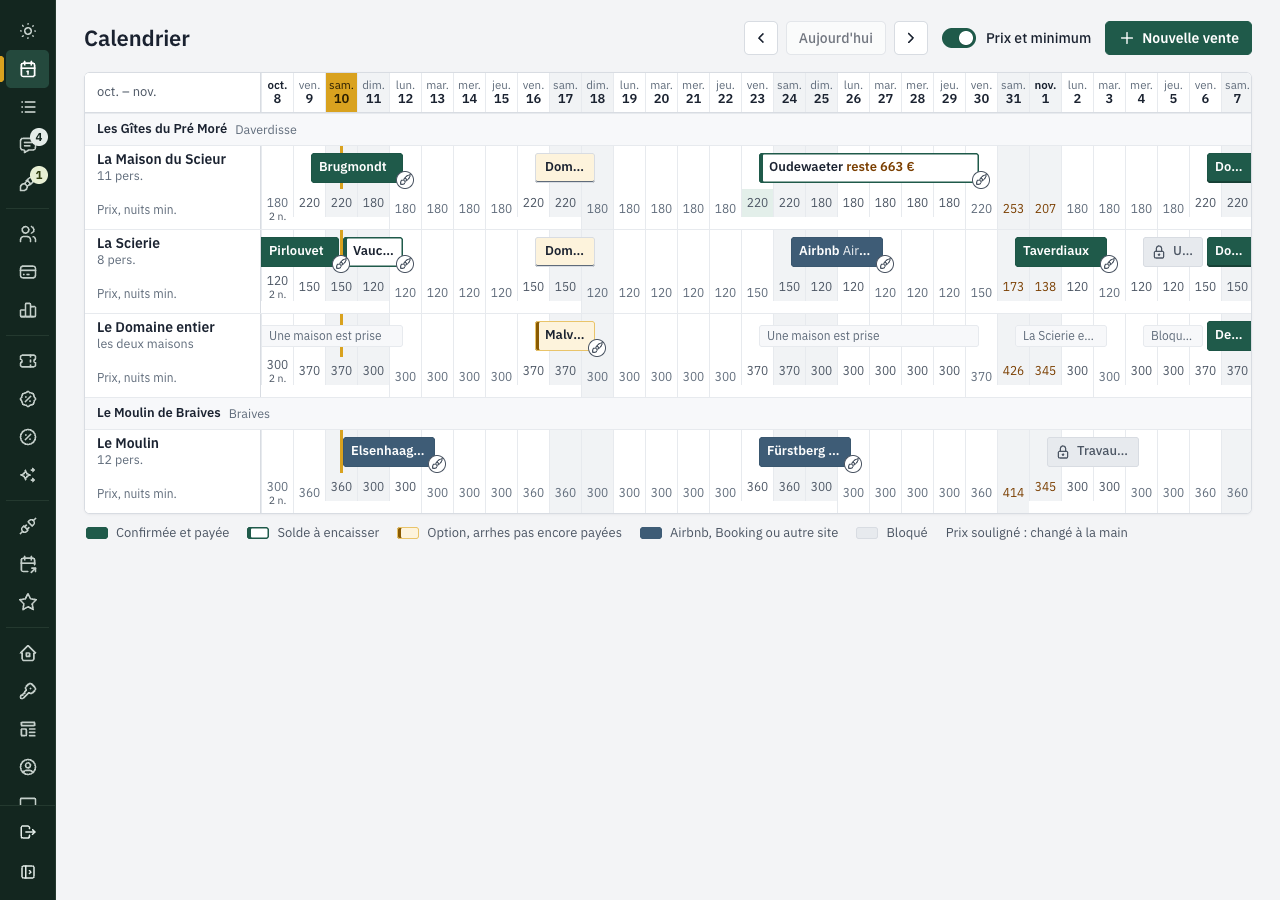
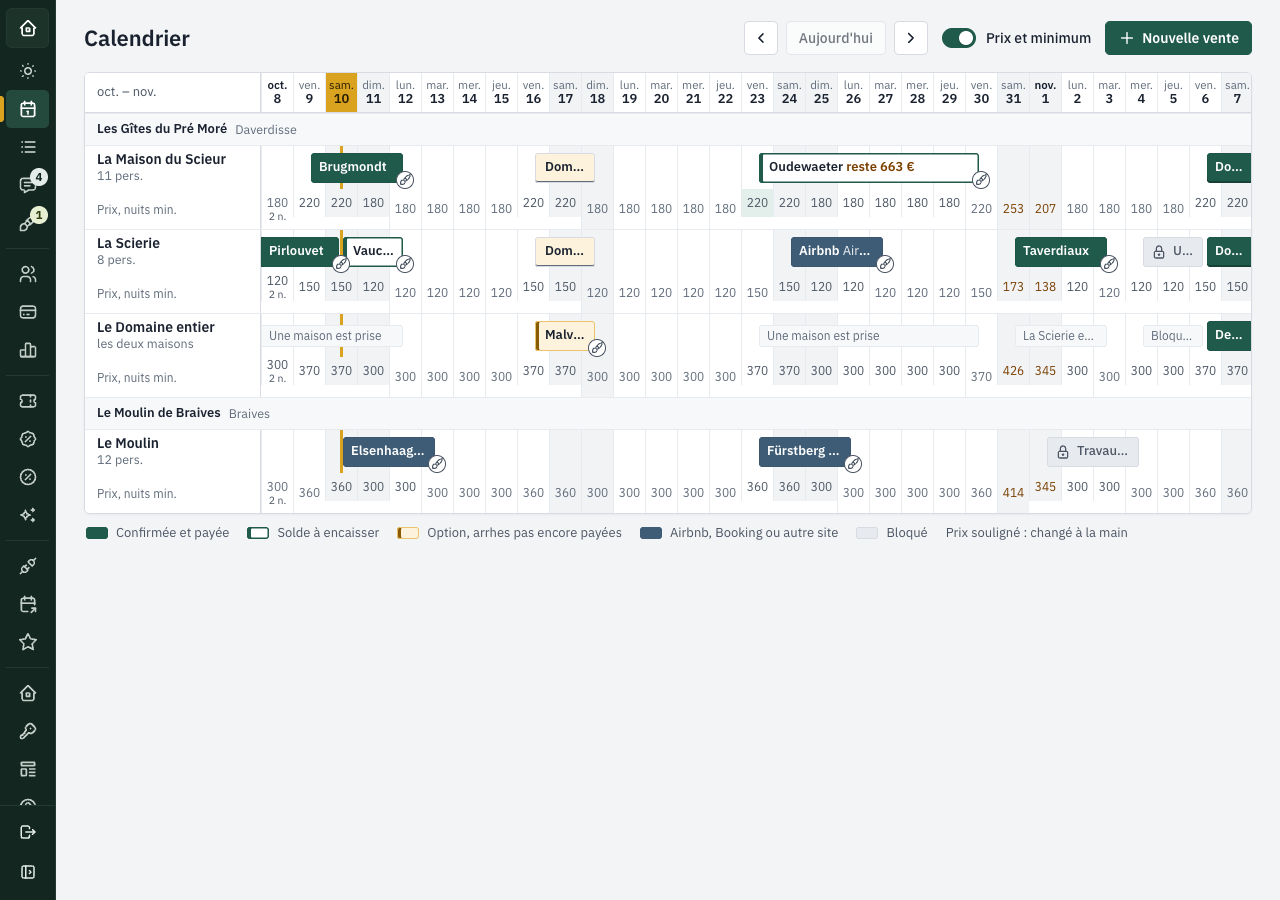
admin : contrôle Codex (boucle 1) — domaine accessible en mode replié, bascule en 64em partout, tableau défilant au téléphone, infobulles au clavier, aria-sort

diff --git a/app/src/styles.css b/app/src/styles.css
@@ -48,7 +48,7 @@
 }
 
 /* Téléphone : corps 16 px, cibles de 44 px. */
-@media (max-width: 1023.98px) {
+@media (max-width: 63.99em) {
   :root {
     --corps: 16px;
     --lab: 104px;
@@ -86,7 +86,7 @@ button { cursor: pointer; }
 .btn.danger { color: var(--danger); }
 .btn.done { background: var(--pine-soft); border-color: var(--pine); color: var(--ink); }
 .btn.wide { width: 100%; }
-@media (max-width: 1023.98px) { .btn { min-height: 48px; border-radius: 12px; font-weight: 700; } }
+@media (max-width: 63.99em) { .btn { min-height: 48px; border-radius: 12px; font-weight: 700; } }
 
 .switch {
   display: inline-flex; align-items: center; gap: 10px; min-height: 44px; padding: 0 6px;
@@ -116,7 +116,9 @@ button { cursor: pointer; }
 }
 .side :focus-visible { outline: 2px solid var(--rail-focus); outline-offset: -2px; }
 .side-top { padding: 12px 12px 8px; flex: none; }
-.side.folded .side-top { padding: 8px 0 0; }
+.side.folded .side-top { padding: 8px 6px 0; display: flex; justify-content: center; }
+.dom-icon { display: grid; place-items: center; width: 44px; height: 40px; border-radius: 6px; border: 1px solid var(--rail-line); background: var(--rail-hover); color: #FFFFFF; }
+.dom-icon:hover { background: var(--rail-on); }
 .side-nav { flex: 1; overflow-y: auto; overflow-x: hidden; padding: 4px 8px 12px; scrollbar-width: thin; scrollbar-color: var(--rail-line) transparent; }
 .side.folded .side-nav { padding: 4px 6px 12px; }
 .side-sec { margin: 0 0 10px; }
@@ -176,7 +178,7 @@ button { cursor: pointer; }
 }
 .top, .tabbar { display: none; }
 
-@media (max-width: 1023.98px) {
+@media (max-width: 63.99em) {
   .top {
     display: flex; align-items: center; padding: 6px 12px; min-height: 56px; position: sticky; top: 0; z-index: 50;
     background: var(--surface); border-bottom: 1px solid var(--line);
@@ -210,7 +212,7 @@ h1.title { margin: 0; font: 750 28px/1.2 var(--police-titres); letter-spacing: -
 h2.sub { margin: 0 0 6px; font: 700 22px/1.25 var(--police-titres); }
 .tools { display: flex; flex-wrap: wrap; align-items: center; gap: 8px; margin-left: auto; }
 .lead { margin: -6px 0 24px; color: var(--ink-2); max-width: 72ch; font-size: 16px; }
-@media (max-width: 1023.98px) {
+@media (max-width: 63.99em) {
   h1.title { font-weight: 600; font-size: 32px; letter-spacing: -.01em; }
   h2.sub { font-weight: 600; font-size: 22px; }
   .head .tools { margin-left: 0; width: 100%; }
@@ -242,7 +244,7 @@ h2.sub { margin: 0 0 6px; font: 700 22px/1.25 var(--police-titres); }
 /* --- calendrier multi-biens (A) --------------------------------------------- */
 .cal { position: relative; background: var(--surface); border: 1px solid var(--line); border-radius: 14px; overflow-x: auto; overscroll-behavior-x: contain; }
 .grid { min-width: max-content; user-select: none; }
-@media (min-width: 1024px) { .grid { min-width: calc(var(--lab) + var(--n2) * var(--half)); width: 100%; } }
+@media (min-width: 64em) { .grid { min-width: calc(var(--lab) + var(--n2) * var(--half)); width: 100%; } }
 .row { display: grid; grid-template-columns: var(--lab) repeat(var(--n2), var(--half)); align-items: center; min-height: 58px; border-top: 1px solid var(--line-2); }
 .row > * { grid-row: 1; }
 .lab {
@@ -349,7 +351,7 @@ h2.sub { margin: 0 0 6px; font: 700 22px/1.25 var(--police-titres); }
 .err p:last-child { margin: 0; }
 .ok-line { display: flex; gap: 10px; align-items: center; padding: 10px 12px; border-radius: 12px; background: var(--pine-soft); margin-top: 12px; font-weight: 600; }
 .pop .tabs-mini { display: flex; gap: 6px; margin-bottom: 14px; }
-@media (max-width: 1023.98px) {
+@media (max-width: 63.99em) {
   .pop {
     left: 0 !important; right: 0; bottom: 0; top: auto !important; width: 100%; border-radius: 18px 18px 0 0;
     max-height: 86vh; padding-bottom: calc(18px + env(safe-area-inset-bottom));
@@ -434,7 +436,7 @@ h2.sub { margin: 0 0 6px; font: 700 22px/1.25 var(--police-titres); }
 .week li.calm span { font-style: italic; }
 .wrap2 { display: grid; grid-template-columns: minmax(0, 680px) 380px; gap: 32px; justify-content: center; }
 .wrap2 > aside { position: sticky; top: 84px; align-self: start; }
-@media (max-width: 1023.98px) {
+@media (max-width: 63.99em) {
   .wrap2 { grid-template-columns: 1fr; gap: 24px; }
   .wrap2 > aside { position: static; }
   .day h1 { font-size: 32px; }
@@ -494,7 +496,7 @@ h2.sub { margin: 0 0 6px; font: 700 22px/1.25 var(--police-titres); }
 .list-row:hover { background: var(--surface-2); }
 .list-row b { font-weight: 700; }
 .list-row small { display: block; color: var(--ink-2); font-size: 15px; line-height: 1.4; margin-top: 2px; }
-@media (max-width: 1023.98px) { .list-row { grid-template-columns: 1fr auto; } .list-row .hide-s { display: none; } }
+@media (max-width: 63.99em) { .list-row { grid-template-columns: 1fr auto; } .list-row .hide-s { display: none; } }
 .empty { background: var(--surface); border: 1.5px dashed var(--line); border-radius: 14px; padding: 22px; }
 .empty h3 { margin: 0 0 4px; font-size: 19px; }
 .empty p { margin: 0 0 10px; color: var(--ink-2); max-width: 60ch; }
@@ -520,7 +522,7 @@ h2.sub { margin: 0 0 6px; font: 700 22px/1.25 var(--police-titres); }
 .reply { width: 100%; min-height: 200px; padding: 12px 14px; border: 1.5px solid var(--line); border-radius: 14px; background: var(--surface); line-height: 1.5; resize: vertical; }
 .send { display: flex; flex-wrap: wrap; align-items: center; gap: 10px; margin-top: 10px; }
 .send p { margin: 0 auto 0 0; color: var(--ink-2); font-size: 15px; }
-@media (max-width: 1023.98px) { .msgs { grid-template-columns: 1fr; } }
+@media (max-width: 63.99em) { .msgs { grid-template-columns: 1fr; } }
 
 .mday { margin: 22px 0 10px; font: 600 22px var(--police-titres); }
 .job { background: var(--surface); border: 1px solid var(--line); border-left: 5px solid var(--men); border-radius: 14px; padding: 14px 16px; margin-bottom: 12px; --k: var(--men); }
@@ -559,7 +561,7 @@ h2.sub { margin: 0 0 6px; font: 700 22px/1.25 var(--police-titres); }
 .toast.bad { background: var(--danger); color: #fff; }
 .toast.bad svg { color: #fff; }
 @keyframes toast-in { from { opacity: 0; transform: translateY(8px); } }
-@media (max-width: 1023.98px) { .toasts { bottom: 90px; } }
+@media (max-width: 63.99em) { .toasts { bottom: 90px; } }
 @media (prefers-reduced-motion: reduce) { * { animation: none !important; transition: none !important; } }
 
 /* --- connexion ---------------------------------------------------------------- */
@@ -571,8 +573,8 @@ h2.sub { margin: 0 0 6px; font: 700 22px/1.25 var(--police-titres); }
 .loading { padding: 40px 0; color: var(--ink-2); display: flex; align-items: center; gap: 10px; }
 .mk { position: relative; z-index: 3; justify-self: center; width: 22px; height: 22px; border-radius: 50%; display: grid; place-items: center; background: var(--surface); border: 1.5px solid var(--ink-2); color: var(--ink-2); margin-top: 30px; }
 .mk.ok { background: var(--pine); border-color: var(--pine); color: var(--on, #fff); }
-@media (max-width: 1023.98px) { .dom-ic { display: none; } }
-@media (max-width: 1023.98px) { .top .dom small { display: block; } }
+@media (max-width: 63.99em) { .dom-ic { display: none; } }
+@media (max-width: 63.99em) { .top .dom small { display: block; } }
 
 /* =====================================================================
    Lot 1 — lisibilité et écrans de réglages (10/10)
@@ -611,14 +613,14 @@ h2.sub { margin: 0 0 6px; font: 700 22px/1.25 var(--police-titres); }
 .list-row:disabled:hover { background: none; }
 .list-row .note-ov { color: var(--genet); font-weight: 600; }
 .show-s { display: none !important; }
-@media (max-width: 1023.98px) { .show-s { display: block !important; } }
+@media (max-width: 63.99em) { .show-s { display: block !important; } }
 .pill.muted-pill { background: var(--surface-2); color: var(--ink-2); border: 1px solid var(--line); }
 
 /* onglets d'un écran */
 .tabs { display: flex; flex-wrap: wrap; gap: 4px; border-bottom: 1.5px solid var(--line); margin: 0 0 28px; }
 .tabs button { min-height: 48px; padding: 0 16px; border: 0; background: none; font-weight: 600; color: var(--ink-2); border-bottom: 3px solid transparent; margin-bottom: -1.5px; }
 .tabs button[aria-selected="true"] { color: var(--ink); border-bottom-color: var(--pine); font-weight: 700; }
-@media (max-width: 1023.98px) { .tabs { flex-wrap: nowrap; overflow-x: auto; } .tabs button { white-space: nowrap; } }
+@media (max-width: 63.99em) { .tabs { flex-wrap: nowrap; overflow-x: auto; } .tabs button { white-space: nowrap; } }
 
 /* la règle des prix, dite une fois */
 .rule-box { background: var(--surface); border: 1px solid var(--line); border-left: 5px solid var(--pine); border-radius: 14px; padding: 16px 20px; margin: 0 0 24px; }
@@ -674,7 +676,7 @@ fieldset.wd legend { font-weight: 600; margin-bottom: 8px; padding: 0; }
 .kpi span { color: var(--ink-2); font-weight: 600; }
 .kpi b { font: 800 30px/1.1 var(--police-titres); letter-spacing: -.01em; }
 .kpi small { color: var(--ink-2); font-size: 15px; }
-@media (max-width: 1023.98px) { .kpis { grid-template-columns: 1fr 1fr; gap: 10px; } .kpi b { font-size: 24px; } }
+@media (max-width: 63.99em) { .kpis { grid-template-columns: 1fr 1fr; gap: 10px; } .kpi b { font-size: 24px; } }
 .mbars { display: grid; grid-template-columns: repeat(12, 1fr); gap: 2px; align-items: end; height: 240px; background: var(--surface); border: 1px solid var(--line); border-radius: 14px; padding: 16px 14px 10px; }
 .mcol { display: flex; flex-direction: column; align-items: center; height: 100%; gap: 4px; }
 .mcol b { font-size: 14px; min-height: 20px; }
@@ -708,7 +710,7 @@ fieldset.wd legend { font-weight: 600; margin-bottom: 8px; padding: 0; }
 .savebar p { margin: 0 auto 0 0; color: var(--ink-2); }
 .savebar.on { border-color: var(--genet); background: var(--genet-soft); }
 .savebar.on p { color: var(--ink); font-weight: 700; }
-@media (max-width: 1023.98px) { .savebar { bottom: calc(64px + env(safe-area-inset-bottom)); margin: 20px 0 0; } }
+@media (max-width: 63.99em) { .savebar { bottom: calc(64px + env(safe-area-inset-bottom)); margin: 20px 0 0; } }
 
 /* comptes, mise en route, photos, registre */
 .secret { font: 700 22px/1.3 ui-monospace, "SF Mono", Menlo, monospace; padding: 14px 16px; background: var(--surface-2); border: 1px solid var(--line); border-radius: 12px; user-select: all; overflow-wrap: anywhere; }
@@ -795,7 +797,7 @@ fieldset.wd legend { font-weight: 600; margin-bottom: 8px; padding: 0; }
   --mantine-font-size-xs: 12px; --mantine-font-size-sm: 13px; --mantine-font-size-md: 14px; --mantine-font-size-lg: 16px; --mantine-font-size-xl: 18px;
   --input-height-sm: 32px; --input-height-md: 36px; --input-height-lg: 40px;
 }
-@media (max-width: 1023.98px) {
+@media (max-width: 63.99em) {
   :root:root {
     --fs-xs: 13px; --fs-sm: 15px; --fs-md: 16px; --fs-lg: 17px; --fs-xl: 20px;
     --mantine-font-size-xs: 13px; --mantine-font-size-sm: 15px; --mantine-font-size-md: 16px; --mantine-font-size-lg: 17px; --mantine-font-size-xl: 20px;
@@ -806,7 +808,7 @@ fieldset.wd legend { font-weight: 600; margin-bottom: 8px; padding: 0; }
 .mantine-Drawer-header, .mantine-Modal-header { background: var(--surface); }
 .mantine-Tooltip-tooltip { font-size: 13px; }
 
-@media (min-width: 1024px) {
+@media (min-width: 64em) {
   /* titres et textes */
   h1.title { font: 600 22px/1.25 var(--police-titres); letter-spacing: -.005em; }
   h2.sub { font: 600 16px/1.3 var(--police-titres); margin: 0 0 4px; }
@@ -961,8 +963,8 @@ fieldset.wd legend { font-weight: 600; margin-bottom: 8px; padding: 0; }
 .th-sort { display: inline-flex; align-items: center; gap: 4px; border: 0; background: none; padding: 0; font: inherit; color: inherit; }
 .th-sort .muted { opacity: .55; }
 .amt { font-weight: 600; }
-@media (max-width: 1023.98px) {
-  .tbl-wrap { border-radius: 12px; overflow: hidden; border: 1px solid var(--line); }
+@media (max-width: 63.99em) {
+  .tbl-wrap { border-radius: 12px; overflow-x: auto; border: 1px solid var(--line); }
   .tbl-wrap > .tbl { border: 0; }
   .tbl .hide-s { display: none; }
   .tbl th, .tbl td { padding: 10px 12px; }

diff --git a/app/src/shell/Shell.tsx b/app/src/shell/Shell.tsx
@@ -6,7 +6,7 @@
 import { Trans, useLingui } from "@lingui/react/macro";
 import { AppShell, Drawer, Menu, Tooltip } from "@mantine/core";
 import { useHotkeys } from "@mantine/hooks";
-import { IconBrush, IconCalendar, IconCheck, IconDots, IconLayoutSidebarLeftCollapse, IconLayoutSidebarLeftExpand, IconLogout, IconMessage, IconSelector, IconSun } from "@tabler/icons-react";
+import { IconBrush, IconCalendar, IconCheck, IconDots, IconHome2, IconLayoutSidebarLeftCollapse, IconLayoutSidebarLeftExpand, IconLogout, IconMessage, IconSelector, IconSun } from "@tabler/icons-react";
 import { useQueryClient } from "@tanstack/react-query";
 import { Link, Outlet, useNavigate, useRouterState, useSearch } from "@tanstack/react-router";
 import { useEffect, useState, type ReactNode } from "react";
@@ -32,7 +32,7 @@ function readFolded(): boolean {
   }
 }
 
-function DomainSelector({ variant }: { variant: "side" | "top" }) {
+function DomainSelector({ variant }: { variant: "side" | "top" | "icon" }) {
   const { t } = useLingui();
   const { scope, setScope: applyScope } = useScope();
   const [pending, setPending] = useState<Scope | null>(null);
@@ -43,16 +43,26 @@ function DomainSelector({ variant }: { variant: "side" | "top" }) {
   const label = current ? current.name : t`Tous mes gîtes`;
   const detail = current ? (current.commune ?? "") : properties.map((p) => p.name.replace(/^(Les Gîtes du |Le )/, "")).join(t` et `);
   return (
-    <Menu position={variant === "side" ? "bottom-start" : "bottom-start"} shadow="md" width={280}>
-      <Menu.Target>
-        <button className={`dom dom-${variant}`} type="button" aria-label={t`Choisir le domaine affiché, actuellement : ${label}`}>
-          <span className="dom-txt">
-            <b>{label}</b>
-            {detail ? <small>{detail}</small> : null}
-          </span>
-          <IconSelector size={18} className="dom-chev" aria-hidden />
-        </button>
-      </Menu.Target>
+    <Menu position={variant === "icon" ? "right-start" : "bottom-start"} shadow="md" width={280}>
+      {variant === "icon" ? (
+        <Tooltip label={label} position="right" withArrow events={{ hover: true, focus: true, touch: false }}>
+          <Menu.Target>
+            <button className="dom-icon" type="button" aria-label={t`Choisir le domaine affiché, actuellement : ${label}`}>
+              <IconHome2 size={20} aria-hidden />
+            </button>
+          </Menu.Target>
+        </Tooltip>
+      ) : (
+        <Menu.Target>
+          <button className={`dom dom-${variant}`} type="button" aria-label={t`Choisir le domaine affiché, actuellement : ${label}`}>
+            <span className="dom-txt">
+              <b>{label}</b>
+              {detail ? <small>{detail}</small> : null}
+            </span>
+            <IconSelector size={18} className="dom-chev" aria-hidden />
+          </button>
+        </Menu.Target>
+      )}
       <Menu.Dropdown>
         <Menu.Item onClick={() => setScope("all")} rightSection={scope === "all" ? <IconCheck size={18} /> : null} style={{ minHeight: 44 }}>
           <Trans>Tous mes gîtes</Trans>
@@ -148,7 +158,9 @@ function Sidebar({ folded, toggle }: { folded: boolean; toggle: () => void }) {
   const keys = isMac ? "⌘ B" : "Ctrl B";
   return (
     <>
-      <div className="side-top">{folded ? null : <DomainSelector variant="side" />}</div>
+      <div className="side-top">
+        <DomainSelector variant={folded ? "icon" : "side"} />
+      </div>
       <nav className="side-nav" aria-label={t`Menu principal`}>
         {nav.map((s) => (
           <div key={s.id} className="side-sec" role="group" aria-labelledby={`nav-${s.id}`}>
@@ -175,12 +187,12 @@ function Sidebar({ folded, toggle }: { folded: boolean; toggle: () => void }) {
             </small>
           </span>
         )}
-        <Tooltip label={t`Se déconnecter`} position="right" withArrow>
+        <Tooltip label={t`Se déconnecter`} position="right" withArrow events={{ hover: true, focus: true, touch: false }}>
           <button type="button" className="side-btn icon" onClick={() => void signOut()} aria-label={t`Se déconnecter`}>
             <IconLogout size={18} />
           </button>
         </Tooltip>
-        <Tooltip label={folded ? t`Déplier le menu (${keys})` : t`Replier le menu (${keys})`} position="right" withArrow>
+        <Tooltip label={folded ? t`Déplier le menu (${keys})` : t`Replier le menu (${keys})`} position="right" withArrow events={{ hover: true, focus: true, touch: false }}>
           <button
             type="button"
             className="side-btn icon"

diff --git a/app/src/pages/Bookings.tsx b/app/src/pages/Bookings.tsx
@@ -37,7 +37,7 @@ function sortRows(list: Booking[], sort: Sort): Booking[] {
 function SortTh({ k, sort, onSort, right, children }: { k: SortKey; sort: Sort; onSort: (s: Sort) => void; right?: boolean; children: ReactNode }) {
   const on = sort?.k === k;
   return (
-    <th scope="col" className={right ? "r" : undefined} aria-sort={on ? (sort.dir === 1 ? "ascending" : "descending") : "none"}>
+    <th scope="col" className={right ? "r" : undefined} aria-sort={on ? (sort.dir === 1 ? "ascending" : "descending") : undefined}>
       <button type="button" className="th-sort" onClick={() => onSort(on && sort.dir === 1 ? { k, dir: -1 } : { k, dir: 1 })}>
         {children}
         {on ? sort.dir === 1 ? <IconArrowUp size={16} aria-hidden /> : <IconArrowDown size={16} aria-hidden /> : <IconArrowsSort size={16} aria-hidden className="muted" />}

diff --git a/app/src/lib/useLayout.ts b/app/src/lib/useLayout.ts
@@ -3,7 +3,7 @@ import { useMediaQuery } from "@mantine/hooks";
 /** « A » à l'ordinateur (1024 px et plus : la barre latérale), « B » au téléphone. Mêmes routes,
  *  mêmes données : seule la disposition change. */
 export function useLayout(): "A" | "B" {
-  const wide = useMediaQuery("(min-width: 1024px)", typeof window !== "undefined" ? window.innerWidth >= 1024 : true, {
+  const wide = useMediaQuery("(min-width: 64em)", typeof window !== "undefined" ? window.innerWidth >= 1024 : true, {
     getInitialValueInEffect: false,
   });
   return wide ? "A" : "B";

diff --git a/app/src/test/setup.ts b/app/src/test/setup.ts
@@ -17,7 +17,7 @@ export function setWide(v: boolean) {
 Object.defineProperty(window, "matchMedia", {
   writable: true,
   value: vi.fn().mockImplementation((q: string) => ({
-    matches: q.includes("min-width: 1024px") ? wide : false,
+    matches: q.includes("min-width: 64em") ? wide : false,
     media: q,
     onchange: null,
     addListener: vi.fn(),
